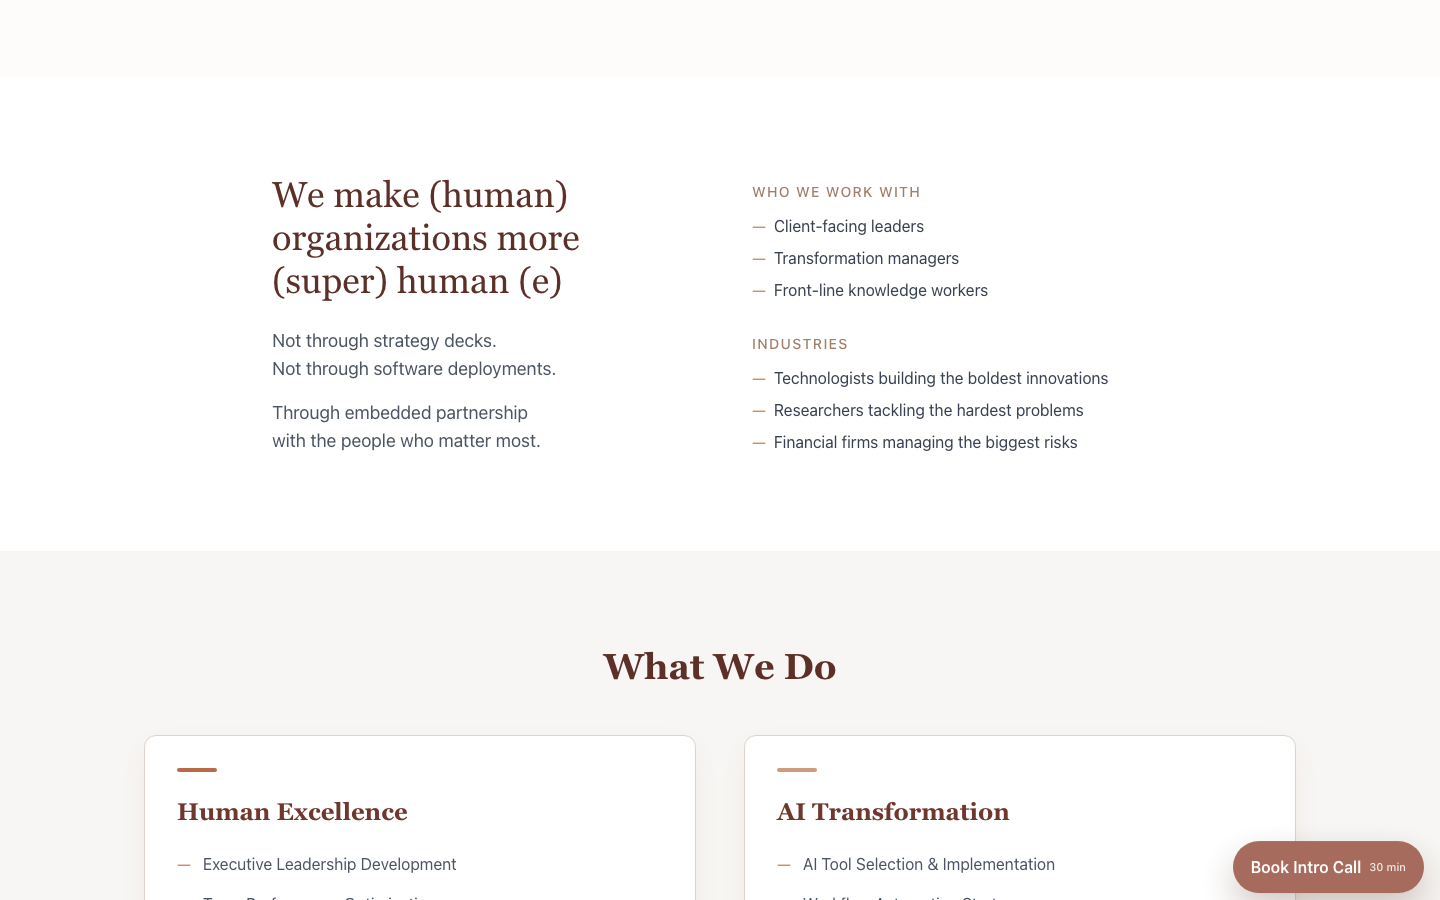
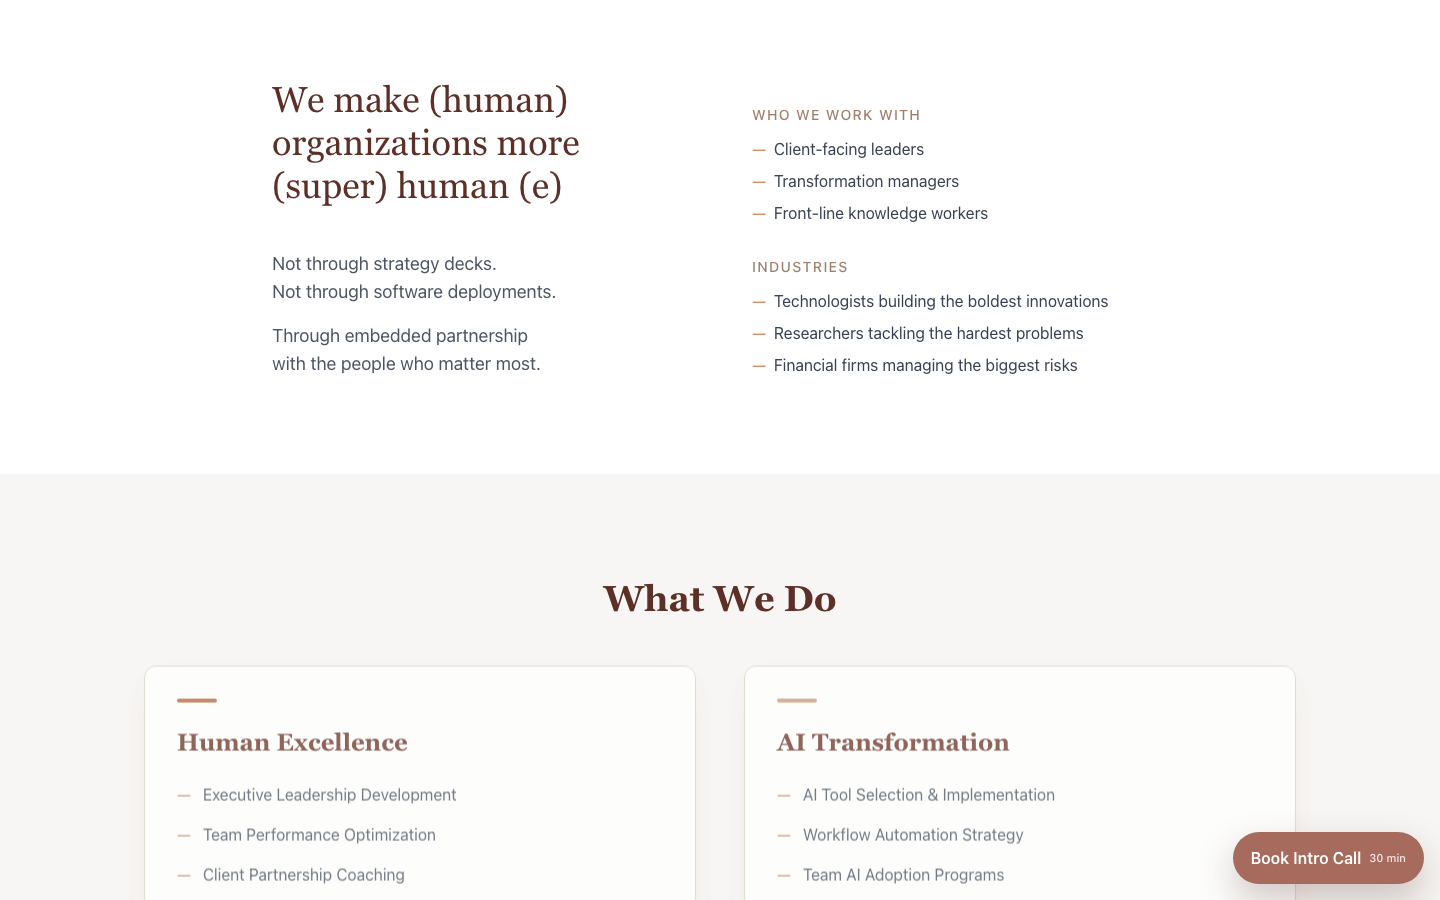
Add scroll-driven parallax and improve screenshot tooling
- Hero fades out and drifts up on scroll
- Section headings have subtle parallax drift
- Content elements fade in and slide up as they enter viewport
- Screenshot script now smooth-scrolls to trigger animations
- Full-page screenshot disables parallax for clean static capture

diff --git a/apps/web/screenshots/take-screenshots.js b/apps/web/screenshots/take-screenshots.js
@@ -3,9 +3,25 @@ const path = require('path');
 
 const WIDTH = 1440;
 const HEIGHT = 900;
+const SCROLL_STEP = 120;
+const SCROLL_DELAY = 60;
 const PORT = 3099;
 const URL = `http://localhost:${PORT}`;
 const OUT_DIR = __dirname;
+
+async function smoothScrollTo(page, targetY) {
+  const currentY = await page.evaluate(() => window.scrollY);
+  const distance = targetY - currentY;
+  const steps = Math.ceil(Math.abs(distance) / SCROLL_STEP);
+  const dir = distance > 0 ? 1 : -1;
+
+  for (let i = 1; i <= steps; i++) {
+    const y = i === steps ? targetY : currentY + dir * SCROLL_STEP * i;
+    await page.evaluate((scrollY) => window.scrollTo(0, scrollY), y);
+    await page.waitForTimeout(SCROLL_DELAY);
+  }
+  await page.waitForTimeout(400);
+}
 
 async function main() {
   const browser = await chromium.launch();
@@ -14,21 +30,38 @@ async function main() {
   await page.goto(URL, { waitUntil: 'networkidle' });
   await page.waitForTimeout(1000);
 
-  // Full page screenshot
+  // Full-page screenshot: disable parallax so all elements are visible
+  await page.evaluate(() => {
+    // Force all elements to be fully visible
+    document.querySelectorAll('*').forEach(el => {
+      const s = getComputedStyle(el);
+      if (parseFloat(s.opacity) < 1) {
+        el.style.opacity = '1';
+        el.style.transform = 'none';
+        el.style.transition = 'none';
+      }
+    });
+  });
+  await page.waitForTimeout(200);
   await page.screenshot({ path: path.join(OUT_DIR, 'full-page.png'), fullPage: true });
   console.log('Saved full-page.png');
+
+  // Reload for scroll screenshots — need parallax active
+  await page.goto(URL, { waitUntil: 'networkidle' });
+  await page.waitForTimeout(1000);
+  await page.evaluate(() => window.scrollTo(0, 0));
+  await page.waitForTimeout(500);
 
   // Get total scroll height
   const totalHeight = await page.evaluate(() => document.body.scrollHeight);
   const screens = Math.ceil(totalHeight / HEIGHT);
 
-  // One screenshot per viewport-height scroll
   for (let i = 0; i < screens; i++) {
-    await page.evaluate((y) => window.scrollTo(0, y), i * HEIGHT);
-    await page.waitForTimeout(300);
+    const targetY = i * HEIGHT;
+    await smoothScrollTo(page, targetY);
     const name = `screen-${String(i).padStart(2, '0')}.png`;
     await page.screenshot({ path: path.join(OUT_DIR, name) });
-    console.log(`Saved ${name} (scroll ${i * HEIGHT}px)`);
+    console.log(`Saved ${name} (scroll ${targetY}px)`);
   }
 
   await browser.close();

diff --git a/apps/web/src/js/main.js b/apps/web/src/js/main.js
@@ -146,21 +146,63 @@ function debounce(func, wait) {
   };
 }
 
-// Add parallax effect to hero section (subtle)
+// Parallax and scroll-driven animations
 function initParallax() {
+  const sections = document.querySelectorAll('section');
   const hero = document.querySelector('section:first-of-type');
-  if (!hero) return;
-  
-  const handleScroll = debounce(() => {
-    const scrolled = window.pageYOffset;
-    const rate = scrolled * -0.5;
-    
-    if (Math.abs(rate) < window.innerHeight) {
-      hero.style.transform = `translateY(${rate}px)`;
-    }
-  }, 10);
-  
-  window.addEventListener('scroll', handleScroll);
+  const heroContent = hero ? hero.querySelector('div') : null;
+
+  // Elements that fade/slide in on scroll
+  const revealEls = document.querySelectorAll(
+    '.grid > div, details, blockquote, article, .contact-section > *, .contact-section .headshot'
+  );
+  revealEls.forEach(el => {
+    el.style.opacity = '0';
+    el.style.transform = 'translateY(32px)';
+    el.style.transition = 'opacity 0.6s ease-out, transform 0.6s ease-out';
+  });
+
+  // Section headings parallax — they move slightly slower than scroll
+  const headings = document.querySelectorAll('section h2');
+
+  let ticking = false;
+  function onScroll() {
+    if (ticking) return;
+    ticking = true;
+    requestAnimationFrame(() => {
+      const scrollY = window.scrollY;
+      const vh = window.innerHeight;
+
+      // Hero: content fades out and drifts up as you scroll past
+      if (heroContent) {
+        const progress = Math.min(scrollY / (vh * 0.6), 1);
+        heroContent.style.opacity = 1 - progress;
+        heroContent.style.transform = `translateY(${scrollY * -0.3}px)`;
+      }
+
+      // Section headings: subtle parallax drift
+      headings.forEach(h => {
+        const rect = h.getBoundingClientRect();
+        const center = rect.top + rect.height / 2;
+        const offset = (center - vh / 2) * 0.06;
+        h.style.transform = `translateY(${offset}px)`;
+      });
+
+      // Reveal elements when they enter viewport
+      revealEls.forEach(el => {
+        const rect = el.getBoundingClientRect();
+        if (rect.top < vh * 0.88) {
+          el.style.opacity = '1';
+          el.style.transform = 'translateY(0)';
+        }
+      });
+
+      ticking = false;
+    });
+  }
+
+  window.addEventListener('scroll', onScroll, { passive: true });
+  onScroll(); // initial check
 }
 
 // Initialize parallax if user prefers reduced motion is not set
